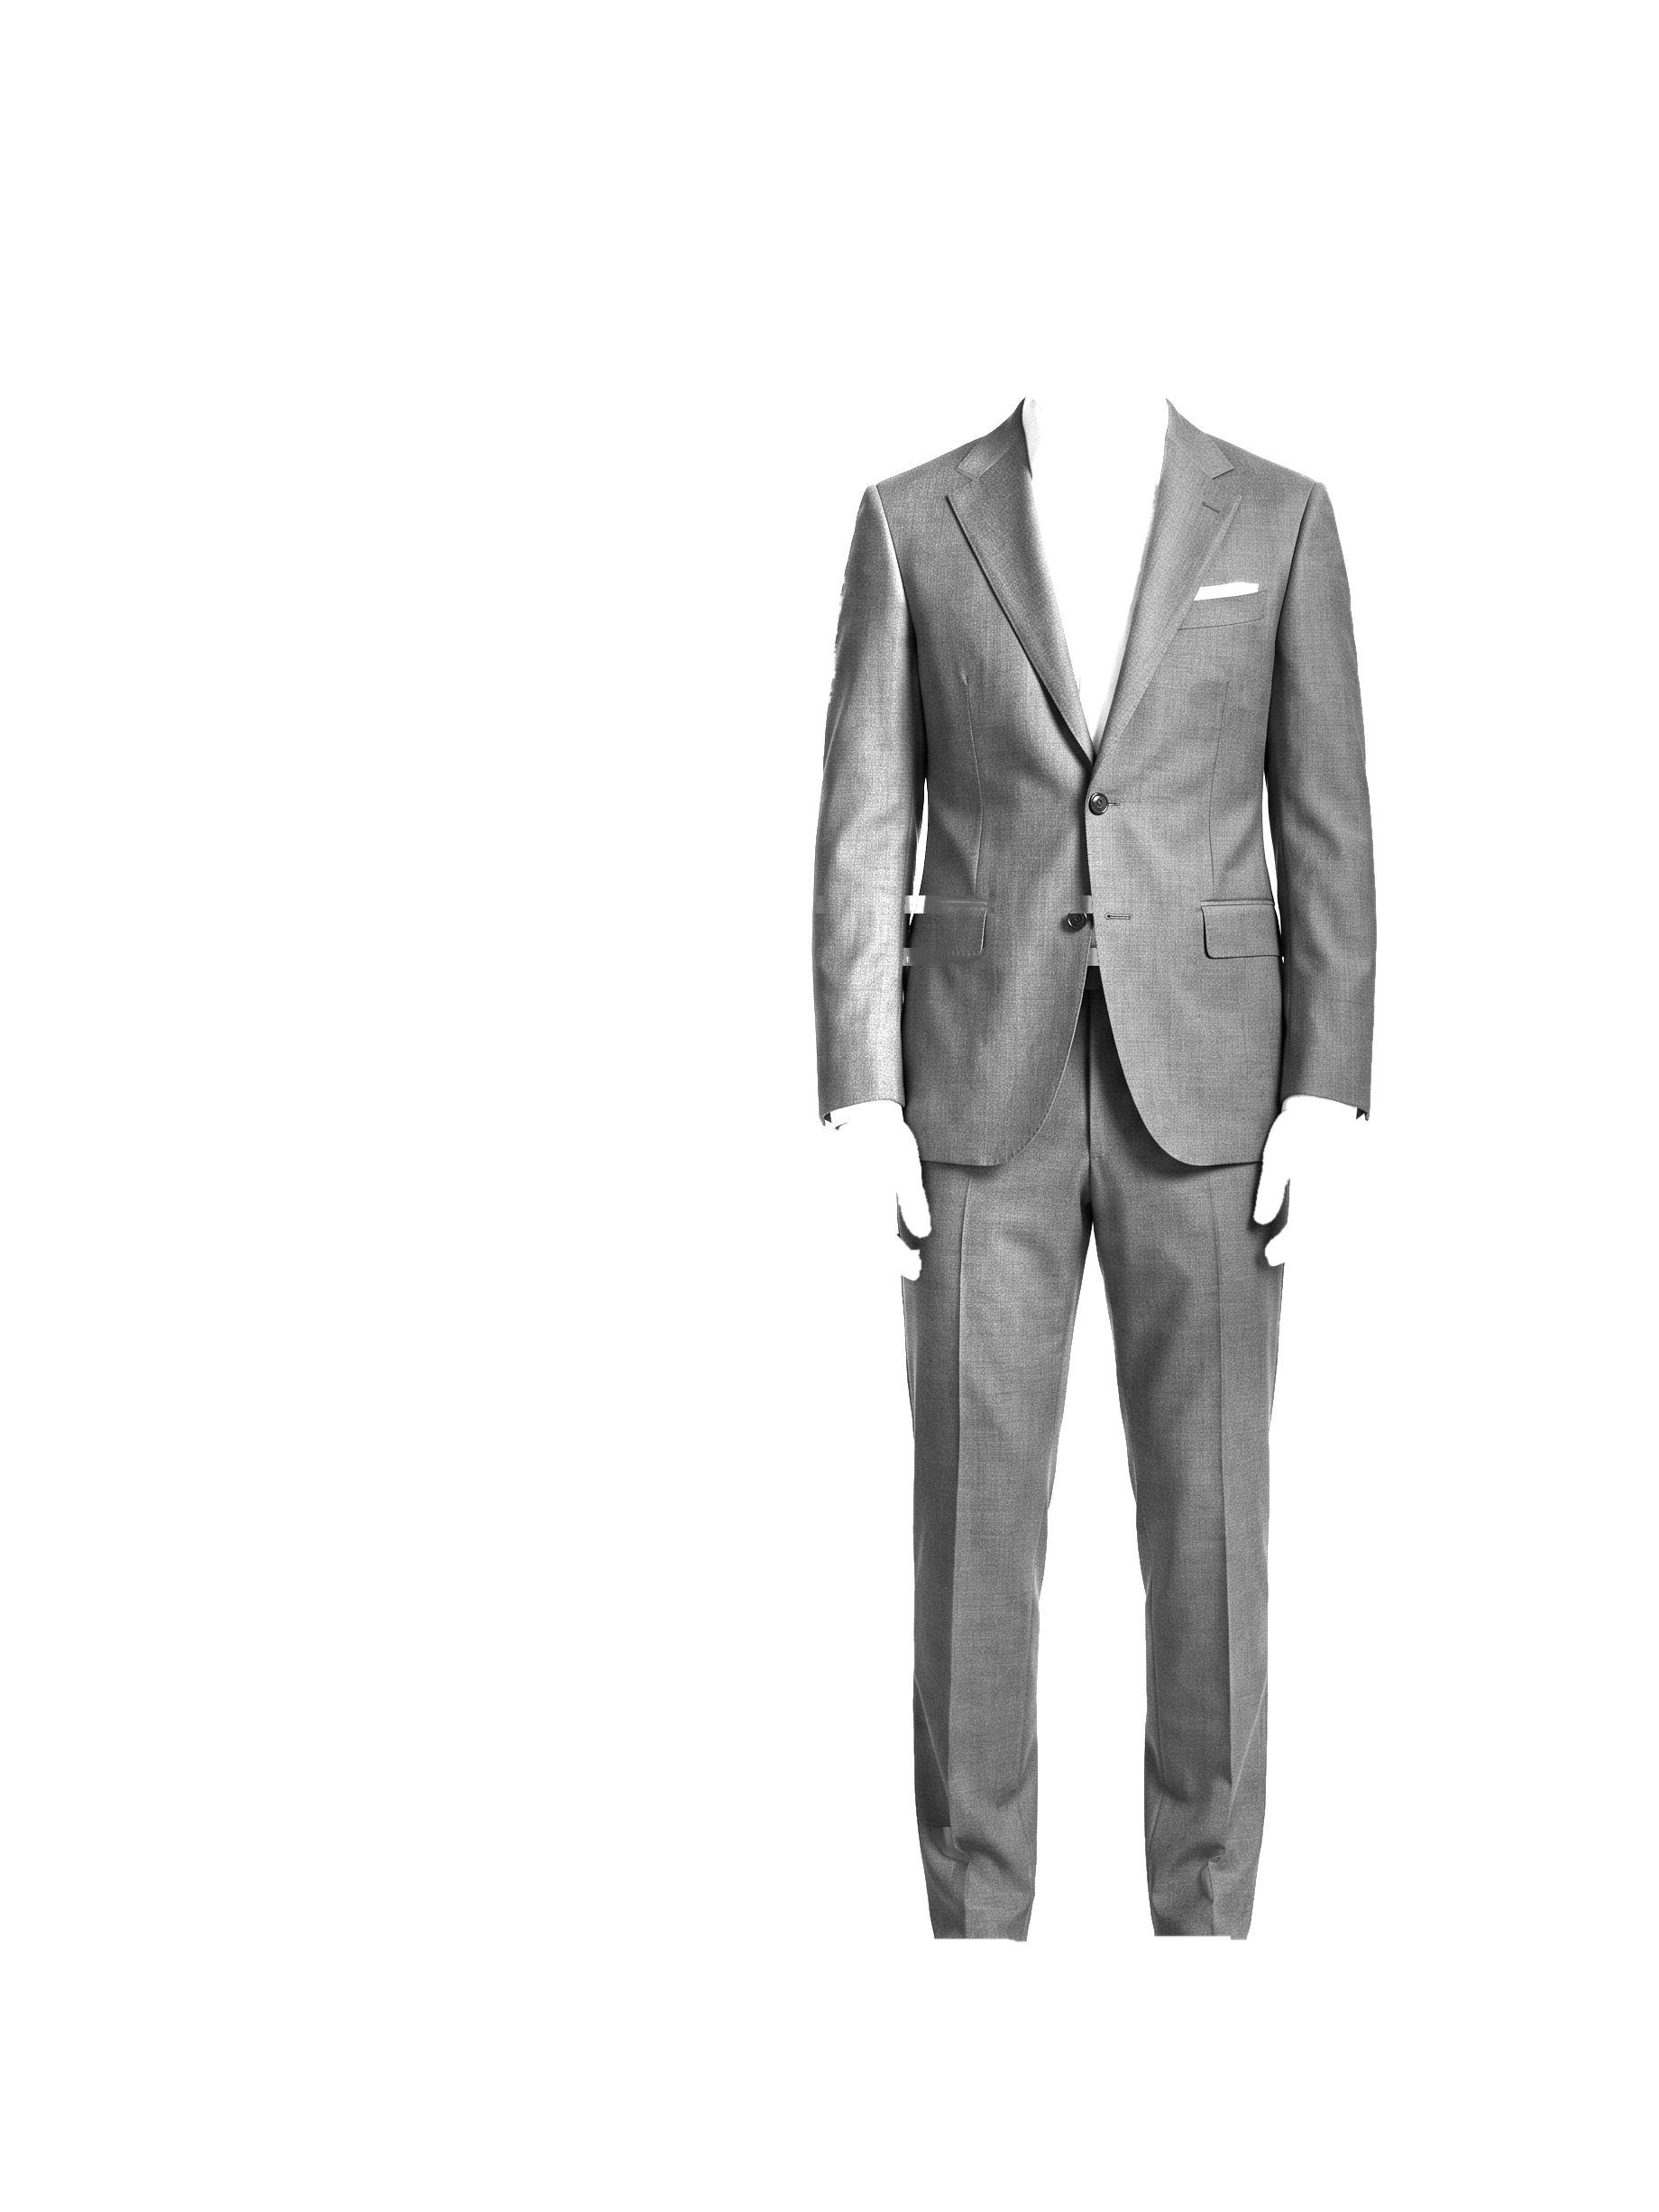
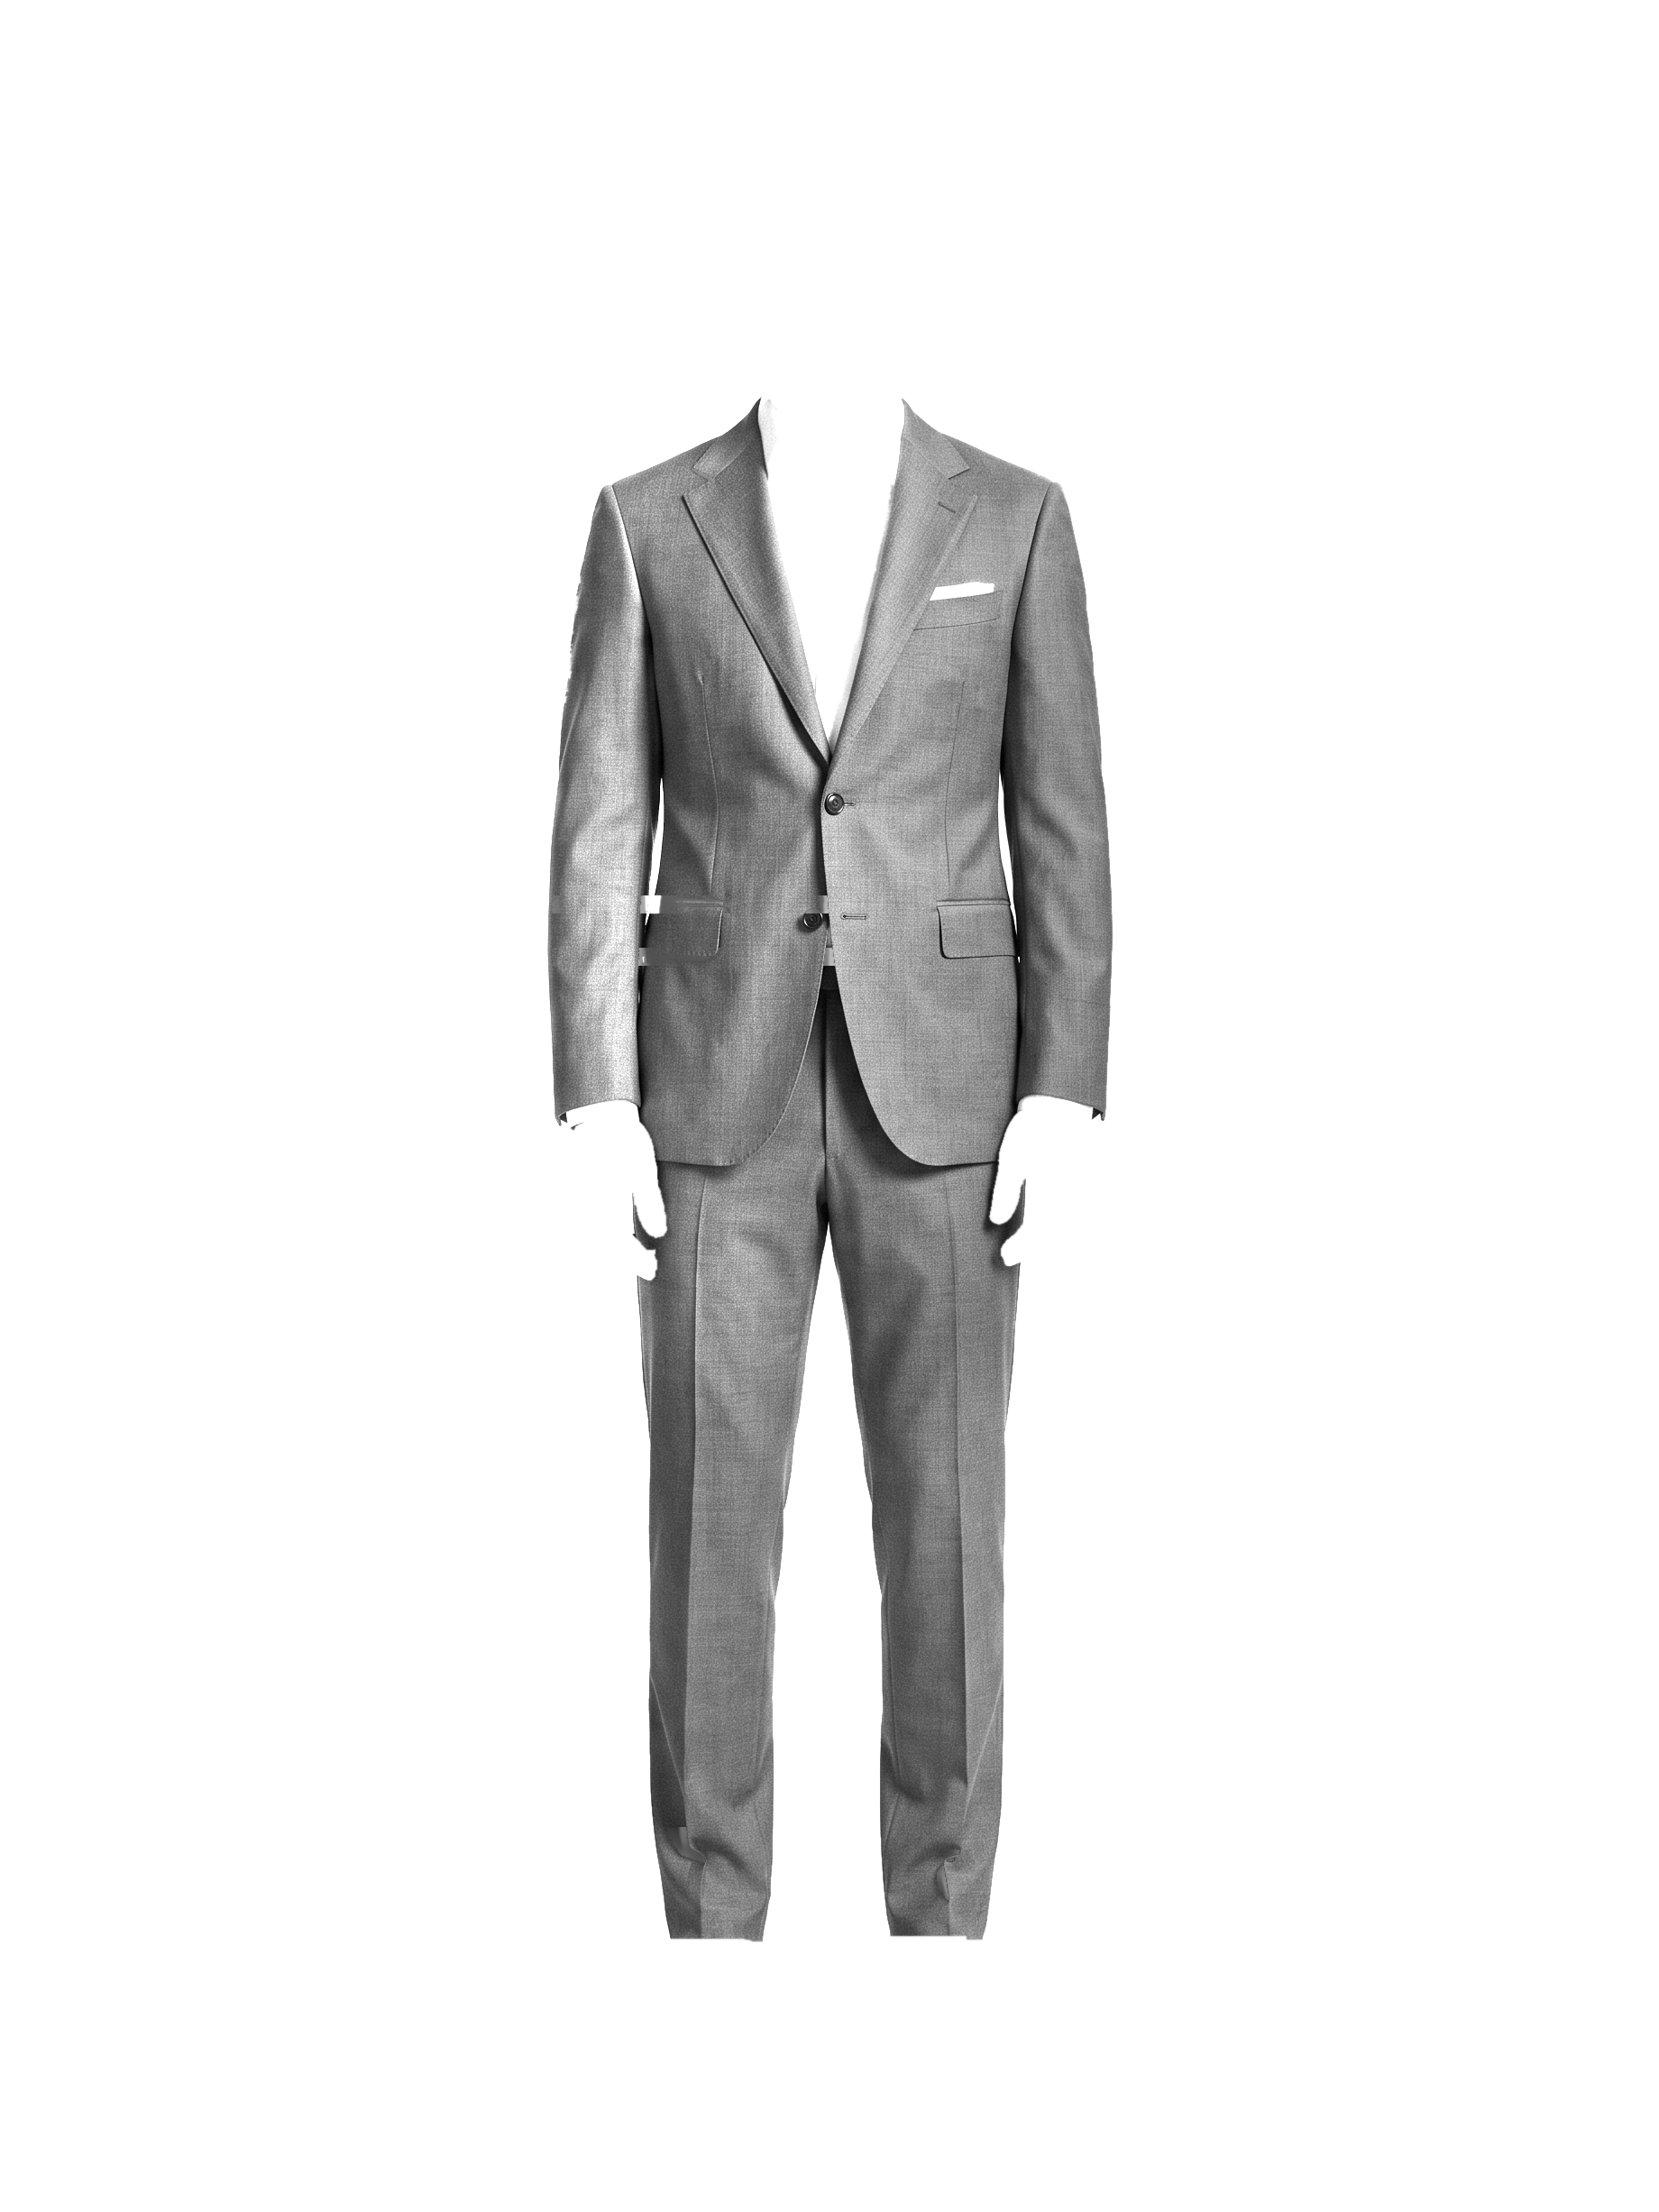
Four user-flagged stripe/presentation defects: all real, all fixed, SS-ground-truthed
The user said "the pinstripes are all off". Verified against Suitsupply's
own striped hero and their eye was right on every count:

1. SEAM PHASE below the button (regression from today's hem extension).
   SS below-button stripe phase is CONTINUOUS across the closure (1px on
   a 33px pitch); above the button they carry a real offset (+7px). The
   offset region is now bounded by the LAPEL-R roll line on exactly the
   rows where that lapel exists — the boundary rides the visible cloth
   edge, tapers to nothing at the button, no offset below. Both the
   run-to-hem version and the old fixed-0.46H cut were wrong in
   opposite directions.

2. SLEEVE over-compression. SLEEVE_RHO 1.0 treated the sleeve as a bare
   cylinder (1.43x squeeze at the edges); SS sleeves are near-uniform.
   RHO 2.0 caps interior compression at ~15%.

3. PHONE shimmer. The full-res canvas was CSS-minified (bilinear at
   0.3-0.6x) which alias-shreds fine stripes. Compositing now stays in
   an offscreen canvas; presentHero() blits through a halving mipmap
   chain into a devicePixelRatio-sized display canvas.

4. FIGURE OFF-CENTRE — the root of the "looks terrible on my phone"
   reaction, hiding all session: the v6 hero casts a long soft floor
   shadow leftward; it passes the fg threshold, so normalize_render
   centred figure-PLUS-shadow and pushed the man ~150px right of centre
   (check_render passed 0.500 for the same reason — same blind test).
[…]

Changed region(s): [[0.3098, 0.1859, 0.8364, 0.8985]]

diff --git a/builder/build_configurator_v0.py b/builder/build_configurator_v0.py
@@ -632,7 +632,43 @@ const PANTS_DEF=[["Pleats","Flat front, no pleat","302L"],["Front pocket","2.5cm
 const VEST_DEF=[["Front","5-button","401G"],["Collar","V, no collar","4000"],["Bottom","Regular","401J"],["Lower pockets","Welt","4300"],["Back","Matched lining + strap","4210"],["Inner lining","Regular","4714"]];
 const CUTMAP={"2-button":{"Notch":"notch","Peak":"peak","_":"notch"},"1-button":{"Peak":"one","_":"one"},
   "Double-breasted":{"Peak":"db","_":"db"},"3-piece":{"Notch":"three","_":"three"}};
-const hero=document.getElementById('hero'),hx=hero.getContext('2d');
+const hero=document.getElementById('hero'),hv=hero.getContext('2d');
+// COMPOSITE at full resolution offscreen; PRESENT at display resolution via halving steps.
+// CSS-minifying a full-res canvas shimmer-aliases fine stripes on phones (bilinear at
+// 0.3-0.6x); a mipmap chain into a devicePixelRatio-sized canvas keeps them clean.
+const heroSrc=document.createElement('canvas'),hx=heroSrc.getContext('2d');
+let _mip=document.createElement('canvas');
+function presentHero(){if(!W)return;
+  const dpr=window.devicePixelRatio||1;
+  const cw=Math.max(2,Math.round(parseFloat(hero.style.width||W)*dpr));
+  const ch=Math.max(2,Math.round(parseFloat(hero.style.height||H)*dpr));
+  if(hero.width!==cw||hero.height!==ch){hero.width=cw;hero.height=ch;}
+  // MOBILE DEFAULT = CHEST-UP. At phone width the full figure gives ~2 px per cm of cloth —
+  // a chalk stripe's lines land 2 px apart and physically cannot resolve; every fabric reads as
+  // a flat solid. Suitsupply never shows a full figure at this size for the same reason. On
+  // narrow stages the presented window is the chest (the fabric decision zone); the expand
+  // button still shows the full figure.
+  let sx=0,sy=0,sW=W,sH=H;
+  // the crop decision is made ONCE, in sizeHero, from the STAGE width — deciding here from the
+  // canvas CSS width diverged from sizeHero's aspect choice (desktop height-limited fits are
+  // narrower than 520 CSS px) and locked desktop into the crop
+  if(window._mobileCrop){sx=Math.round(W*0.20);sy=Math.round(H*0.06);sW=Math.round(W*0.60);sH=Math.round(H*0.50);}
+  let src=heroSrc,sw=W,sh=H;
+  const mx=_mip.getContext('2d');
+  // first hop extracts the source window, then halve until within 2x of target
+  {const nw=Math.min(sW,Math.max(cw,Math.round(sW*0.5))),nh=Math.round(nw*sH/sW);
+   const first=document.createElement('canvas');first.width=nw;first.height=nh;
+   const c1=first.getContext('2d');c1.imageSmoothingEnabled=true;c1.imageSmoothingQuality='high';
+   c1.drawImage(heroSrc,sx,sy,sW,sH,0,0,nw,nh);
+   src=first;sw=nw;sh=nh;}
+  while(sw*0.5>cw){const nw=Math.round(sw*0.5),nh=Math.round(sh*0.5);
+    const keep=document.createElement('canvas');keep.width=nw;keep.height=nh;
+    const c2=keep.getContext('2d');c2.imageSmoothingEnabled=true;c2.imageSmoothingQuality='high';
+    c2.drawImage(src,0,0,sw,sh,0,0,nw,nh);
+    src=keep;sw=nw;sh=nh;}
+  hv.imageSmoothingEnabled=true;hv.imageSmoothingQuality='high';
+  hv.clearRect(0,0,cw,ch);
+  hv.drawImage(src,0,0,sw,sh,0,0,cw,ch);}
 let W=0,H=0,off,ox,cutAssets={},pat={},fabPix={},microPix={};
 let state={fabric:FABRICS[0].code,style:"2-button",lapel:"Notch",chest:OPTS.chestPocket[0]?.code,lower:OPTS.lowerPocket[0]?.code,
   vent:OPTS.vent[0]?.code,button:OPTS.buttons[0]?.code,lining:OPTS.linings[0]?.code,
@@ -722,13 +758,21 @@ function buildWarpNormal(nimg,alpha){const nc=document.createElement('canvas');n
 // fronts are separate pieces of cloth from the lapel to the hem and their patterns never re-align
 // on a horizontal line across the chest. So the seam now runs to the jacket hem, taken from the
 // panel map (TROUSER starts at the hem) instead of from a fraction of image height.
-function buildSeamPhase(alpha,panel){const cen=new Float32Array(H);
-  for(let y=0;y<H;y++){let s=0,c=0;for(let x=0;x<W;x++){if(alpha[y*W+x]){s+=x;c++;}}cen[y]=c?s/c:W/2;}
-  const sm=new Float32Array(H),r=15;for(let y=0;y<H;y++){let s=0,c=0;for(let k=-r;k<=r;k++){const yy=y+k;if(yy>=0&&yy<H){s+=cen[yy];c++;}}sm[y]=s/c;}
+function buildSeamPhase(alpha,panel){
+  // The offset region is EVERYTHING RIGHT OF THE LAPEL-R INNER EDGE (the roll line — the
+  // visible front-opening edge), on exactly the rows where that lapel exists. Above the button
+  // the boundary rides the real cloth edge; at the button the region tapers to nothing, so
+  // there is no horizontal cut and no offset below the button. Measured on Suitsupply's striped
+  // hero (2026-07-23): below-button stripe phase is CONTINUOUS across the closure (1 px on a
+  // 33 px pitch), so the previous run-to-the-hem version — and the fixed-0.46H cut before it —
+  // were both wrong in opposite directions. The boundary belongs on the visible edge.
   const seam=new Uint8Array(W*H);
-  for(let y=0;y<H;y++)for(let x=0;x<W;x++){const i=y*W+x;const p=panel?panel[i]:0;
-    // jacket panels only: 0 is background, 8 is TROUSER. The overlap ends where the jacket does.
-    if(alpha[i]&&x>sm[y]&&p!==0&&p!==8)seam[i]=1;}
+  for(let y=0;y<H;y++){
+    let e=-1;
+    for(let x=0;x<W;x++)if(panel[y*W+x]===4){e=x;break;}
+    if(e<0)continue;
+    for(let x=e;x<W;x++){const i=y*W+x;const p=panel[i];
+      if(alpha[i]&&p!==0&&p!==8)seam[i]=1;}}
   return seam;}
 // PATH A — per-panel grain. The map itself is segmented at build time (builder/panels.py), where
 // the render's own pixels are available and the result can be looked at; here we only decode it.
@@ -736,14 +780,14 @@ function buildSeamPhase(alpha,panel){const cen=new Float32Array(H);
 function buildPanels(img){const c=document.createElement('canvas');c.width=W;c.height=H;
   const x=c.getContext('2d');x.drawImage(img,0,0,W,H);const d=x.getImageData(0,0,W,H).data;
   const p=new Uint8Array(W*H);for(let i=0;i<W*H;i++)p[i]=d[i*4];return p;}
-function sizeHero(){const st=hero.parentElement;if(!st||!W)return;const sw=Math.max(40,st.clientWidth-6),sh=Math.max(40,st.clientHeight-6),AR=W/H;
-  let h=sh,w=h*AR;if(w>sw){w=sw;h=w/AR;}hero.style.width=Math.round(w)+'px';hero.style.height=Math.round(h)+'px';}
+function sizeHero(){const st=hero.parentElement;if(!st||!W)return;const sw=Math.max(40,st.clientWidth-6),sh=Math.max(40,st.clientHeight-6);const zen=document.getElementById('app')&&document.getElementById('app').classList.contains('zen');window._mobileCrop=(sw<520&&!zen);const AR=window._mobileCrop?(W*0.60)/(H*0.50):W/H;
+  let h=sh,w=h*AR;if(w>sw){w=sw;h=w/AR;}hero.style.width=Math.round(w)+'px';hero.style.height=Math.round(h)+'px';presentHero();}
 // One cut-view's assets -> cutAssets. Split out of init() so the back views can be added
 // later from a second bundle (see ensureViews) instead of all 15 loading up front.
 async function addCut(c){
   if(cutAssets[c.id])return;
   {const [b,d,m,nimg,pimg]=await Promise.all([load(c.base),load(c.drape),load(c.mask),load(c.normal),load(c.panel)]);
-    if(!W){W=b.naturalWidth;H=b.naturalHeight;hero.width=W;hero.height=H;sizeHero();addEventListener('resize',sizeHero);
+    if(!W){W=b.naturalWidth;H=b.naturalHeight;heroSrc.width=W;heroSrc.height=H;sizeHero();addEventListener('resize',sizeHero);
       // the stage can change size without a window resize (rail clamp, Shopify container,
       // the expand toggle) — observe the element itself, not just the window.
       if(window.ResizeObserver&&hero.parentElement){try{new ResizeObserver(sizeHero).observe(hero.parentElement);}catch(e){}}
@@ -1112,7 +1156,7 @@ async function loadShopifyFabrics(){
         price2pc:Math.round(parseFloat(two.price||'575')),priceVest:vest?Math.round(parseFloat(vest.price)):200};
     }).filter(f=>f.code&&f.tile);
     return fabs.length?fabs:null;
-  }catch(e){return null;}
+  }catch(e){return null;}  presentHero();
 }
 (async function(){ if(onShopify()){const sf=await loadShopifyFabrics(); if(sf){FABRICS=sf; state.fabric=sf[0].code;}} init(); })();
 </script>

diff --git a/builder/normalize_render.py b/builder/normalize_render.py
@@ -69,6 +69,15 @@ def normalise(img):
         fh = rows[-1] - rows[0]
         newH = int(round(fh / FIGURE_FRAC))
         newW = int(round(newH * ASPECT))
+        # CENTRE ON THE FIGURE, NOT THE FIGURE PLUS ITS SHADOW (2026-07-23). The v6 hero casts a
+        # long soft contact shadow leftward along the floor; it passes FIG_THRESH, stretched the
+        # measured span 300 px left, and this centring shifted the MAN ~150 px right of centre —
+        # visibly off-centre on every stage. Height keeps the full extent (the sole must count);
+        # the horizontal centre is measured strictly above the shoe/shadow band.
+        body = fg[: rows[0] + int(0.86 * fh), :]
+        bcols = np.where(body.sum(0) > 3)[0]
+        if len(bcols) > 10:
+            cols = bcols
         cx = (cols[0] + cols[-1]) // 2
         top = int(rows[0] - (newH - fh) / 2)
         left = int(cx - newW / 2)

diff --git a/builder/panels.py b/builder/panels.py
@@ -577,7 +577,12 @@ TORSO_R_FRAC  = 0.70   # torso cylinder radius as a fraction of the FULL silhoue
                        # reads 0.644-0.730, a normal-map cylinder fit 0.69, and matching the
                        # reference jacket's physical body half-width 0.64-0.67.
 TORSO_R_FRAC_SIDE = 1.00   # in profile BOTH torso edges are true silhouettes
-SLEEVE_RHO    = 1.00   # a sleeve's outer edge IS a silhouette on 100% of rows
+SLEEVE_RHO    = 2.00   # sleeve cylinder radius multiplier. 1.0 treated the sleeve as a bare
+                       # cylinder and squeezed stripes up to 1.43x at both edges — visibly
+                       # bendier than reality. Suitsupply's striped hero (measured
+                       # 2026-07-23) shows near-uniform sleeve spacing: cloth follows the
+                       # arm loosely, it does not shrink-wrap it. At 2.0 the edge
+                       # compression caps at ~15%, matching what their photo shows.
 LEG_RHO       = 1.00
 DEG_CEN, DEG_R = 3, 3  # polynomial order for C(y) / R(y)
 TRIM_TOP, TRIM_BOT = 40, 25   # rows dropped from the FIT (still evaluated) at each panel end

diff --git a/builder/check_render.py b/builder/check_render.py
@@ -73,7 +73,11 @@ def analyse(path):
         ok("figure found", False, "no figure detected")
         return img, out
     frac = (rows[-1] - rows[0]) / h
-    ctr = ((cols[0] + cols[-1]) / 2) / w
+    # centre from rows ABOVE the shoe/shadow band — a long floor shadow fooled this into
+    # passing an off-centre figure (2026-07-23)
+    body = fg[: rows[0] + int(0.86 * (rows[-1] - rows[0])), :]
+    bc = np.where(body.sum(0) > 3)[0]
+    ctr = (((bc[0] + bc[-1]) / 2) / w) if len(bc) > 10 else ((cols[0] + cols[-1]) / 2) / w
     ok("figure height", abs(frac - FIGURE_FRAC) <= FIGURE_TOL,
        f"{frac:.3f} (target {FIGURE_FRAC} +/- {FIGURE_TOL})")
     ok("figure centred", abs(ctr - 0.5) <= CENTRE_TOL, f"centre at {ctr:.3f}")